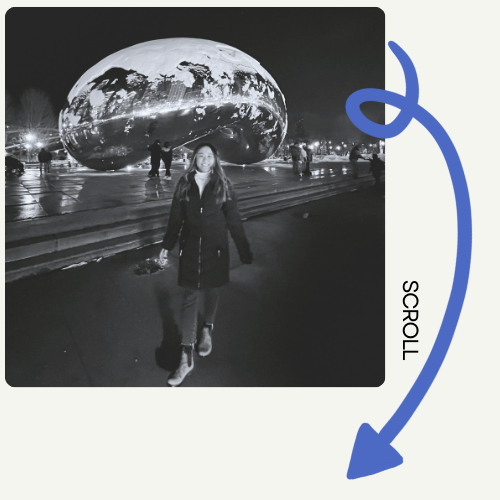
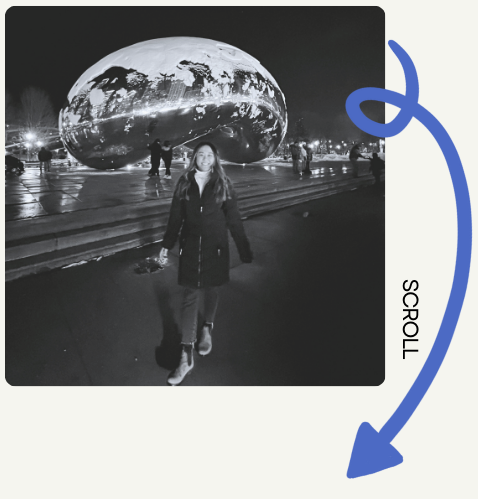
updated nav bar spacing and cropped chicago bean photo
in the nav bar, added more spacing between the logo and navigation buttons

diff --git a/app/components/Nav.tsx b/app/components/Nav.tsx
@@ -1,48 +1,61 @@
 "use client";
-import React, { useState } from 'react';
-import Image from 'next/image';
-import logo from '../images/santoslogo.png';
+import React, { useState } from "react";
+import Image from "next/image";
+import logo from "../images/santoslogo.png";
 
 export default function Nav() {
   const [open, setOpen] = useState(false);
 
   return (
-    <header className="fixed top-0 left-0 w-full z-50">
-      <div className="bg-[#F5F5EF]">
-        <div className="max-w-4xl mx-auto px-4 py-3 flex items-center justify-between relative">
-          <div className="flex items-center">
-            <a href="#home" aria-label="Go to home">
-              <Image src={logo} alt="Dianne Santos Logo" width={180} height={48} />
-            </a>
-          </div>
+    <header className="fixed top-0 left-0 w-full z-50 bg-[#F5F5EF]">
+      {/* OUTER BAR: full width */}
+      <div className="w-full">
+        {/* INNER WRAPPER: max-width but flex left->right */}
+        <div className="mx-auto max-w-6xl px-4 py-3 flex items-center">
 
-          {/* Desktop links */}
-          <nav className="hidden md:block">
-            <ul className="flex gap-6 items-center text-slate-700 h-10">
-              <li><a href="#home" className="hover:text-slate-900">HOME</a></li>
-              <li><a href="#resume" className="hover:text-slate-900">RESUME</a></li>
-              <li><a href="#contact" className="hover:text-slate-900">CONTACT</a></li>
-            </ul>
-          </nav>
+          {/* LEFT: logo */}
+          <a href="#home" aria-label="Go to home" className="flex items-center">
+            <Image src={logo} alt="Logo" width={180} height={48} />
+          </a>
 
-          {/* Mobile hamburger */}
-          <div className="md:hidden">
+          {/* RIGHT GROUP — ml-auto forces far right */}
+          <div className="ml-auto flex items-center gap-6">
+
+            {/* Desktop Nav */}
+            <nav className="hidden md:block">
+              <ul className="flex items-center gap-6 text-slate-700">
+                <li><a href="#home" className="hover:text-black">HOME</a></li>
+                <li><a href="#resume" className="hover:text-black">RESUME</a></li>
+                <li><a href="#contact" className="hover:text-black">CONTACT</a></li>
+              </ul>
+            </nav>
+
+            {/* Mobile Menu Button */}
             <button
-              aria-label="Toggle menu"
-              onClick={() => setOpen(prev => !prev)}
-              className="p-2 rounded-md focus:outline-none"
+              className="md:hidden p-2"
+              onClick={() => setOpen((prev) => !prev)}
             >
-              <svg className="w-6 h-6 text-slate-700" fill="none" stroke="currentColor" viewBox="0 0 24 24" xmlns="http://www.w3.org/2000/svg">
+              <svg className="w-6 h-6" fill="none" stroke="currentColor">
                 {open ? (
-                  <path strokeLinecap="round" strokeLinejoin="round" strokeWidth={2} d="M6 18L18 6M6 6l12 12" />
+                  <path
+                    strokeWidth="2"
+                    strokeLinecap="round"
+                    strokeLinejoin="round"
+                    d="M6 18L18 6M6 6l12 12"
+                  />
                 ) : (
-                  <path strokeLinecap="round" strokeLinejoin="round" strokeWidth={2} d="M4 6h16M4 12h16M4 18h16" />
+                  <path
+                    strokeWidth="2"
+                    strokeLinecap="round"
+                    strokeLinejoin="round"
+                    d="M4 6h16M4 12h16M4 18h16"
+                  />
                 )}
               </svg>
             </button>
           </div>
 
-          {/* Mobile menu panel */}
+          {/* Mobile Dropdown */}
           {open && (
             <div className="absolute right-4 top-full mt-2 w-44 bg-white border border-slate-200 rounded-md shadow-lg md:hidden">
               <ul className="flex flex-col">
